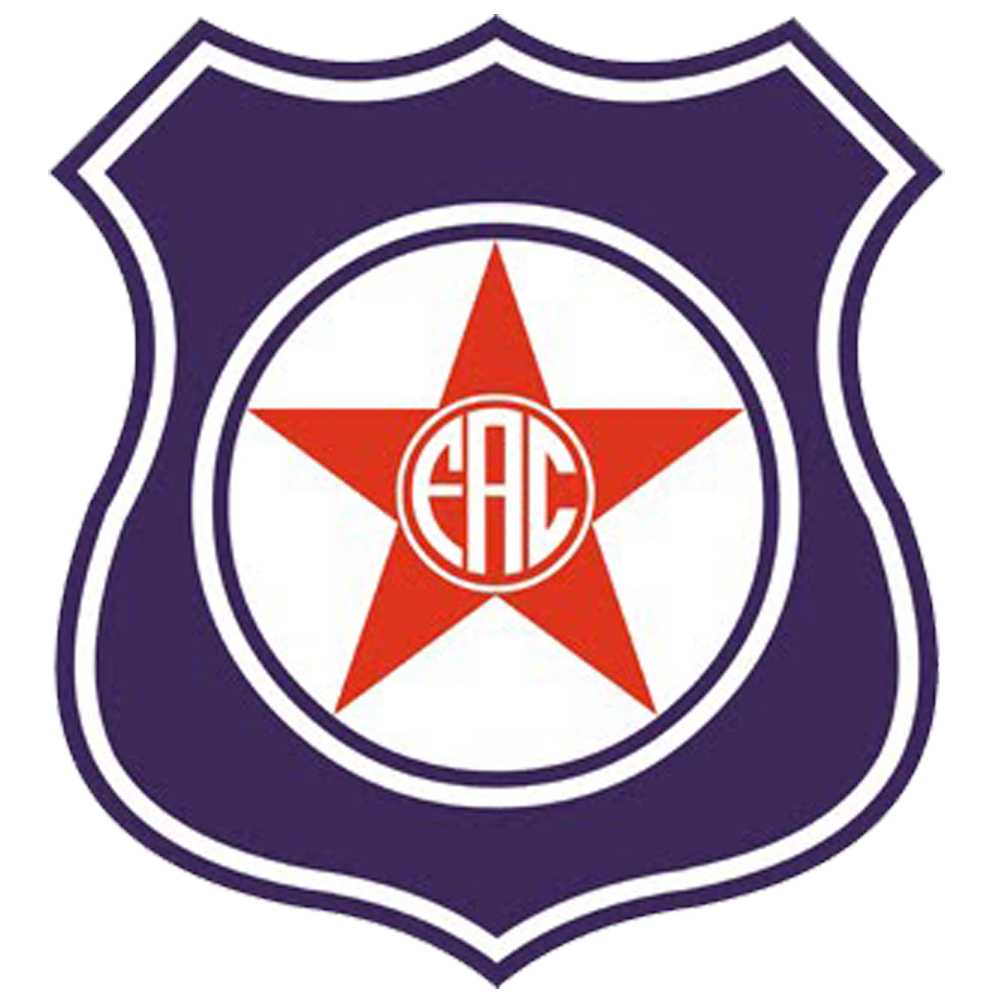
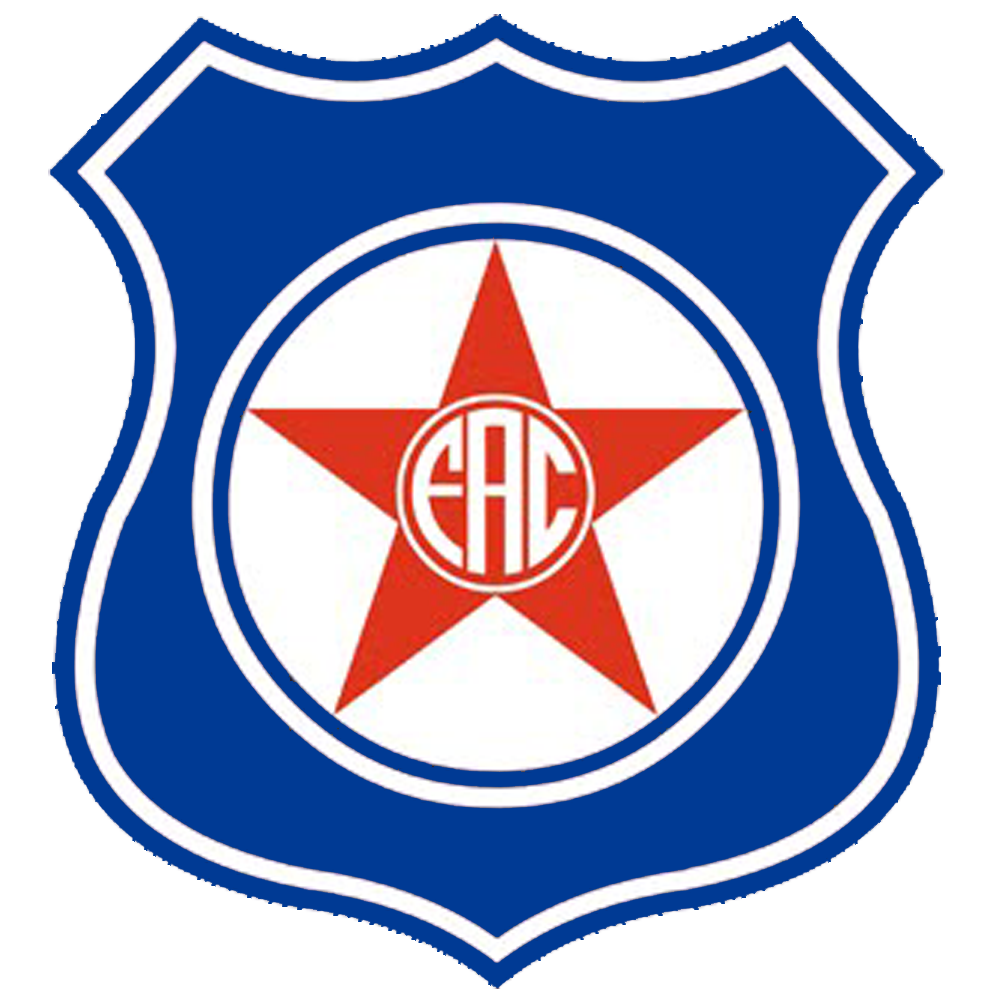
atualizando cores e escudos

diff --git a/cores.js b/cores.js
@@ -117,6 +117,8 @@ function coresTimes(time, jogo = null) {
 			return ["#9f022f", "white"];
 		case "Fortaleza":
 			return ["#11519b", "white"];
+		case "Friburguense":
+			return ["#003a94", "white"];
 		case "Goiás":
 			return ["#006437", "white"];
 		case "Grêmio":
